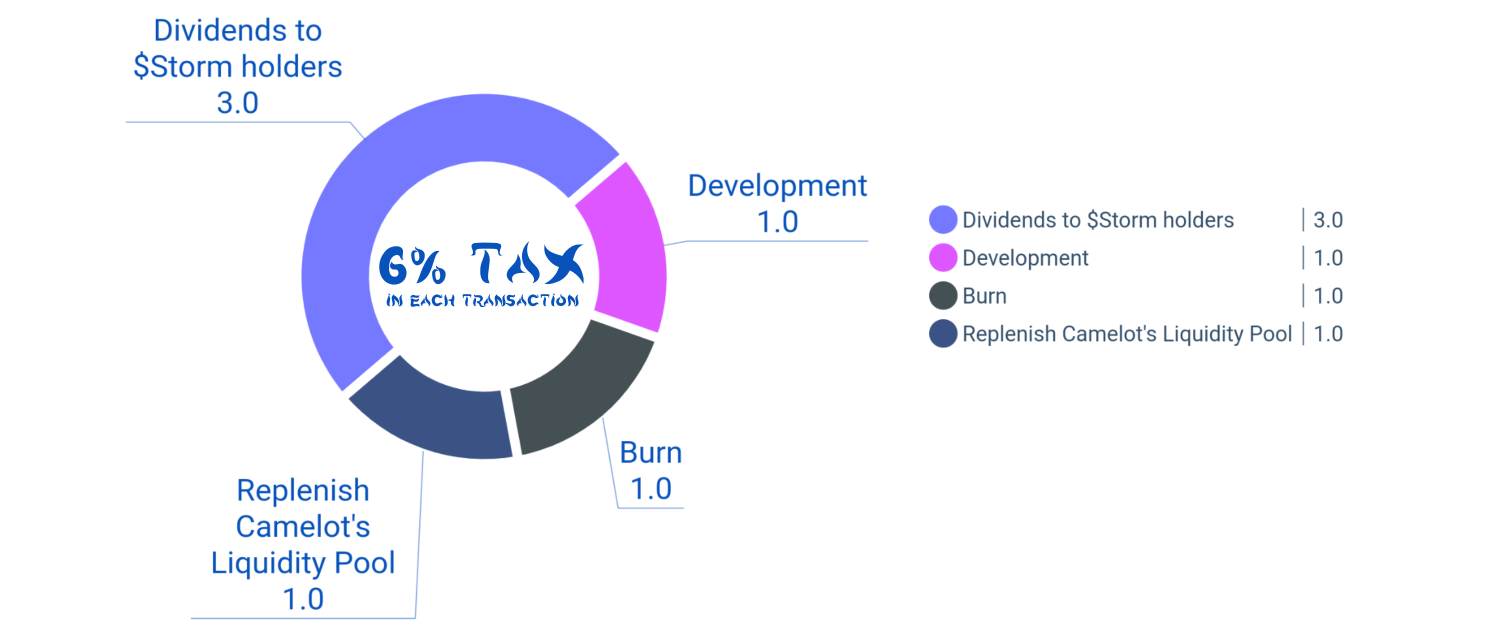
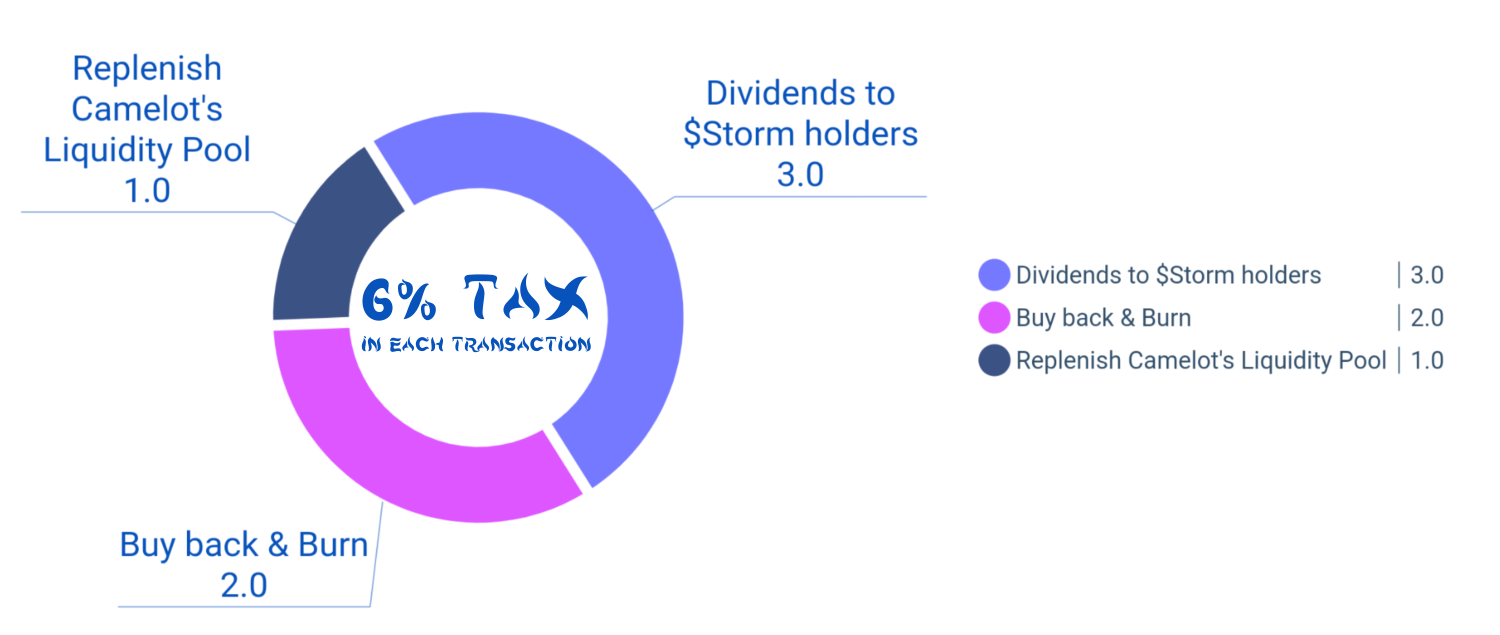
updated front page

diff --git a/top domain/index.html b/top domain/index.html
@@ -396,8 +396,8 @@
           <p style="font-family: 'Iceberg';">
             <b>
               Winter Storm is a community-driven crypto project on the Arbitrum chain, featuring a deflationary token model with a 6% transaction tax. 
-              This tax redistributes 3% to token holders and fortifies the liquidity pool with another 1% for stable trading. Additionally, 1% is sent to a dead wallet, contributing to token burning and scarcity. 
-              The remaining 1% is earmarked for development and marketing initiatives. Winter Storm prioritizes community engagement through regular events. Leveraging the Arbitrum network, the project ensures scalability, 
+              This tax redistributes 3% to token holders and fortifies the liquidity pool with another 1% for stable trading. The remaining 2% is used to buy back $STM tokens which is sent to a dead wallet, 
+              contributing to token burning and scarcity. Winter Storm prioritizes community engagement through regular events. Leveraging the Arbitrum network, the project ensures scalability, 
               cost-efficiency, and increased interoperability benefits.
               <br>
               <img src="./static/images/about_chart.png" style="display: block; margin: auto; margin-top: 20px; width:80%; height:auto; border:5px solid #0752BB; border-radius: 15px;">
